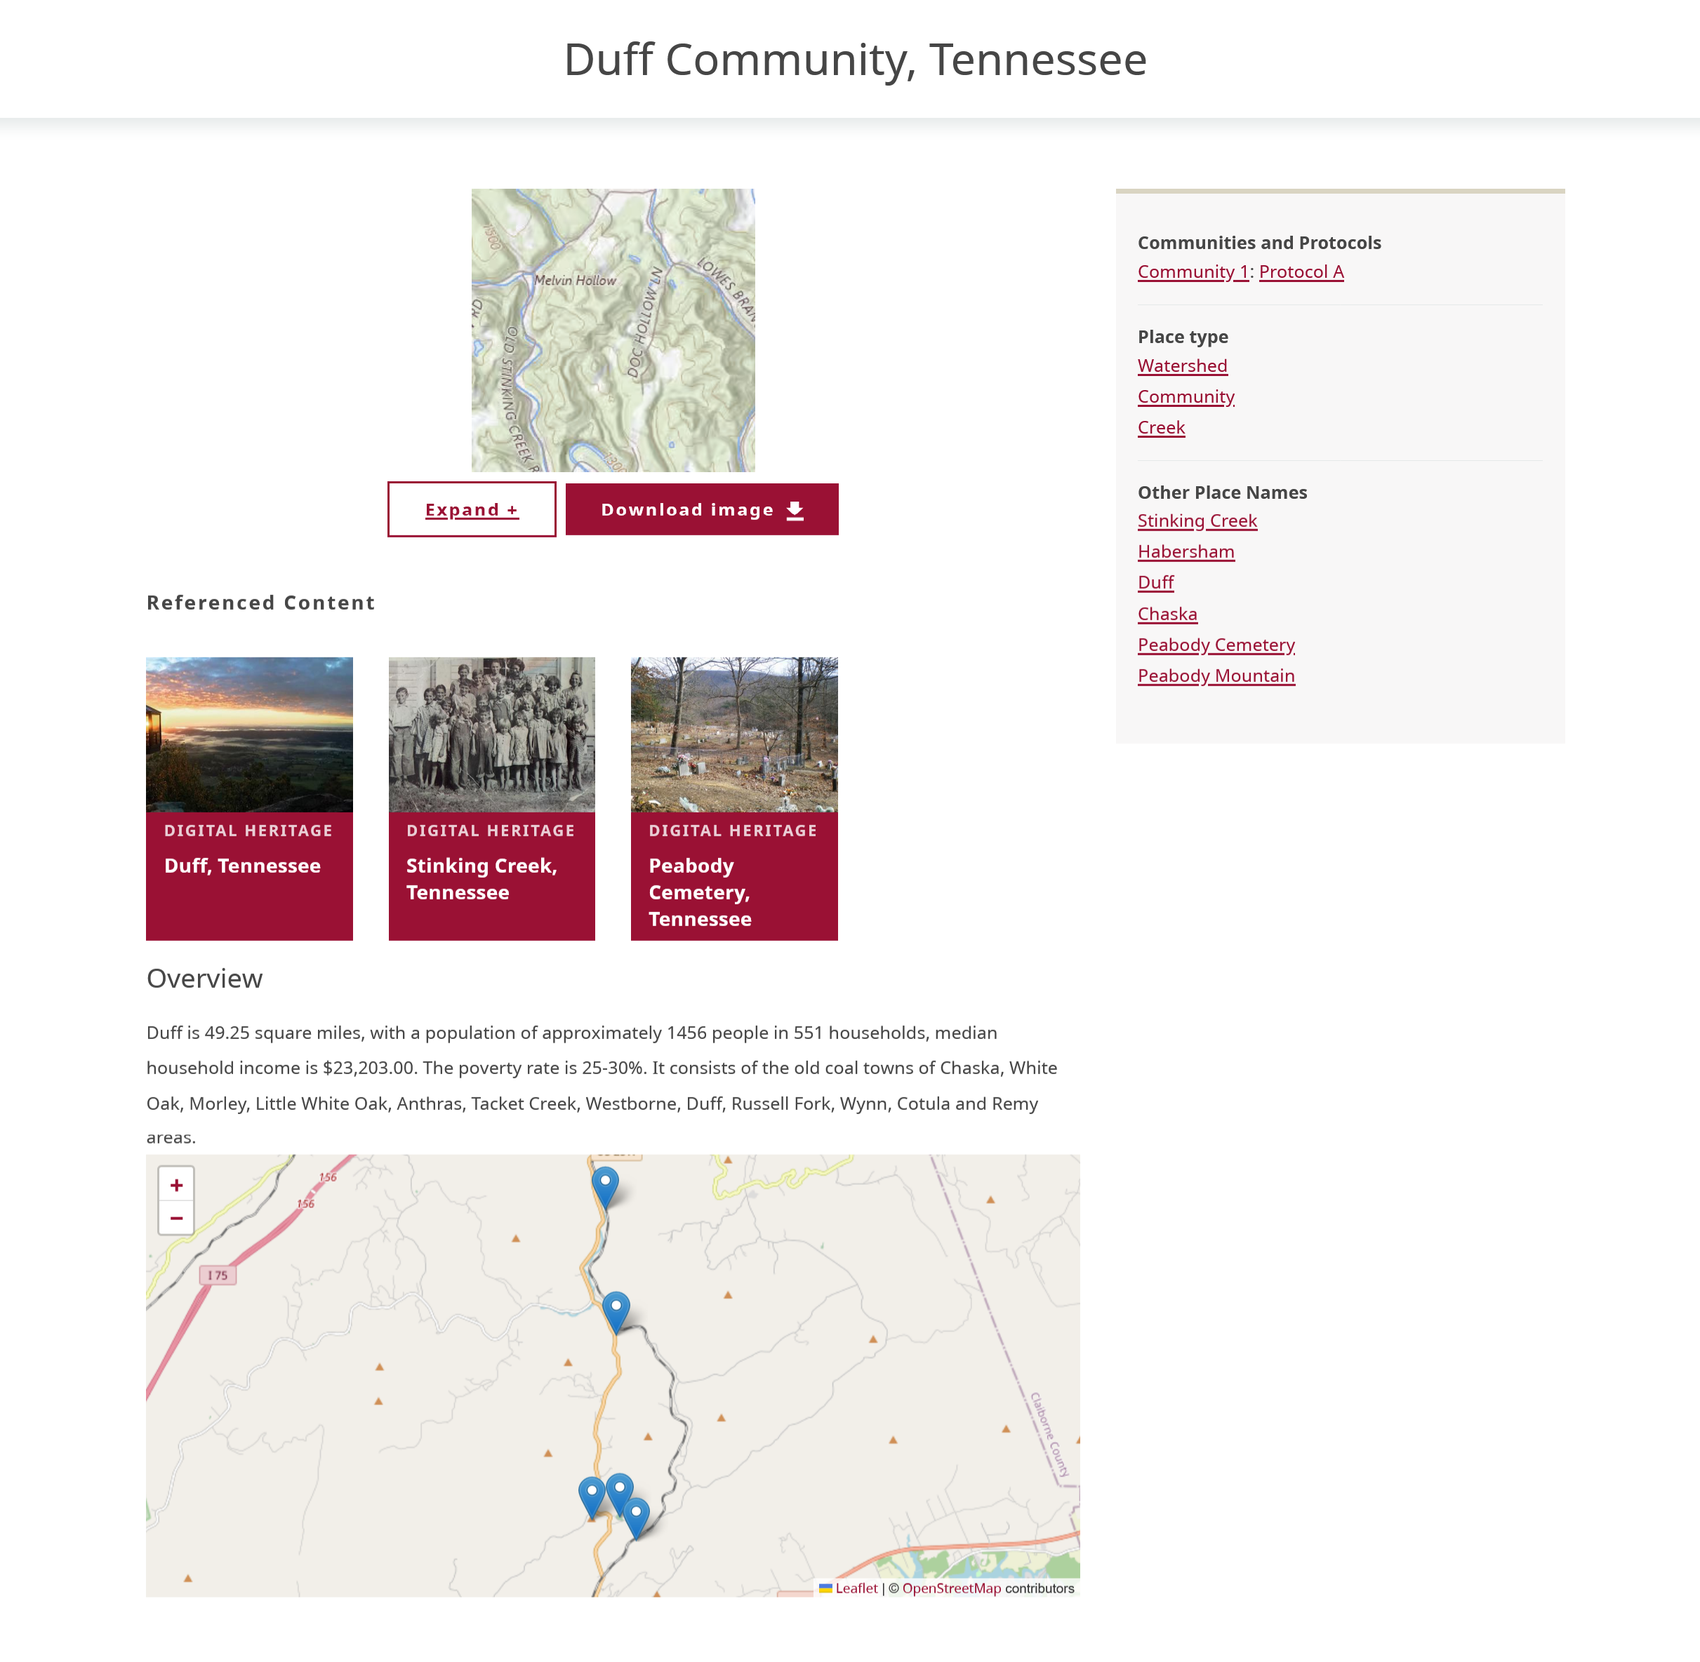
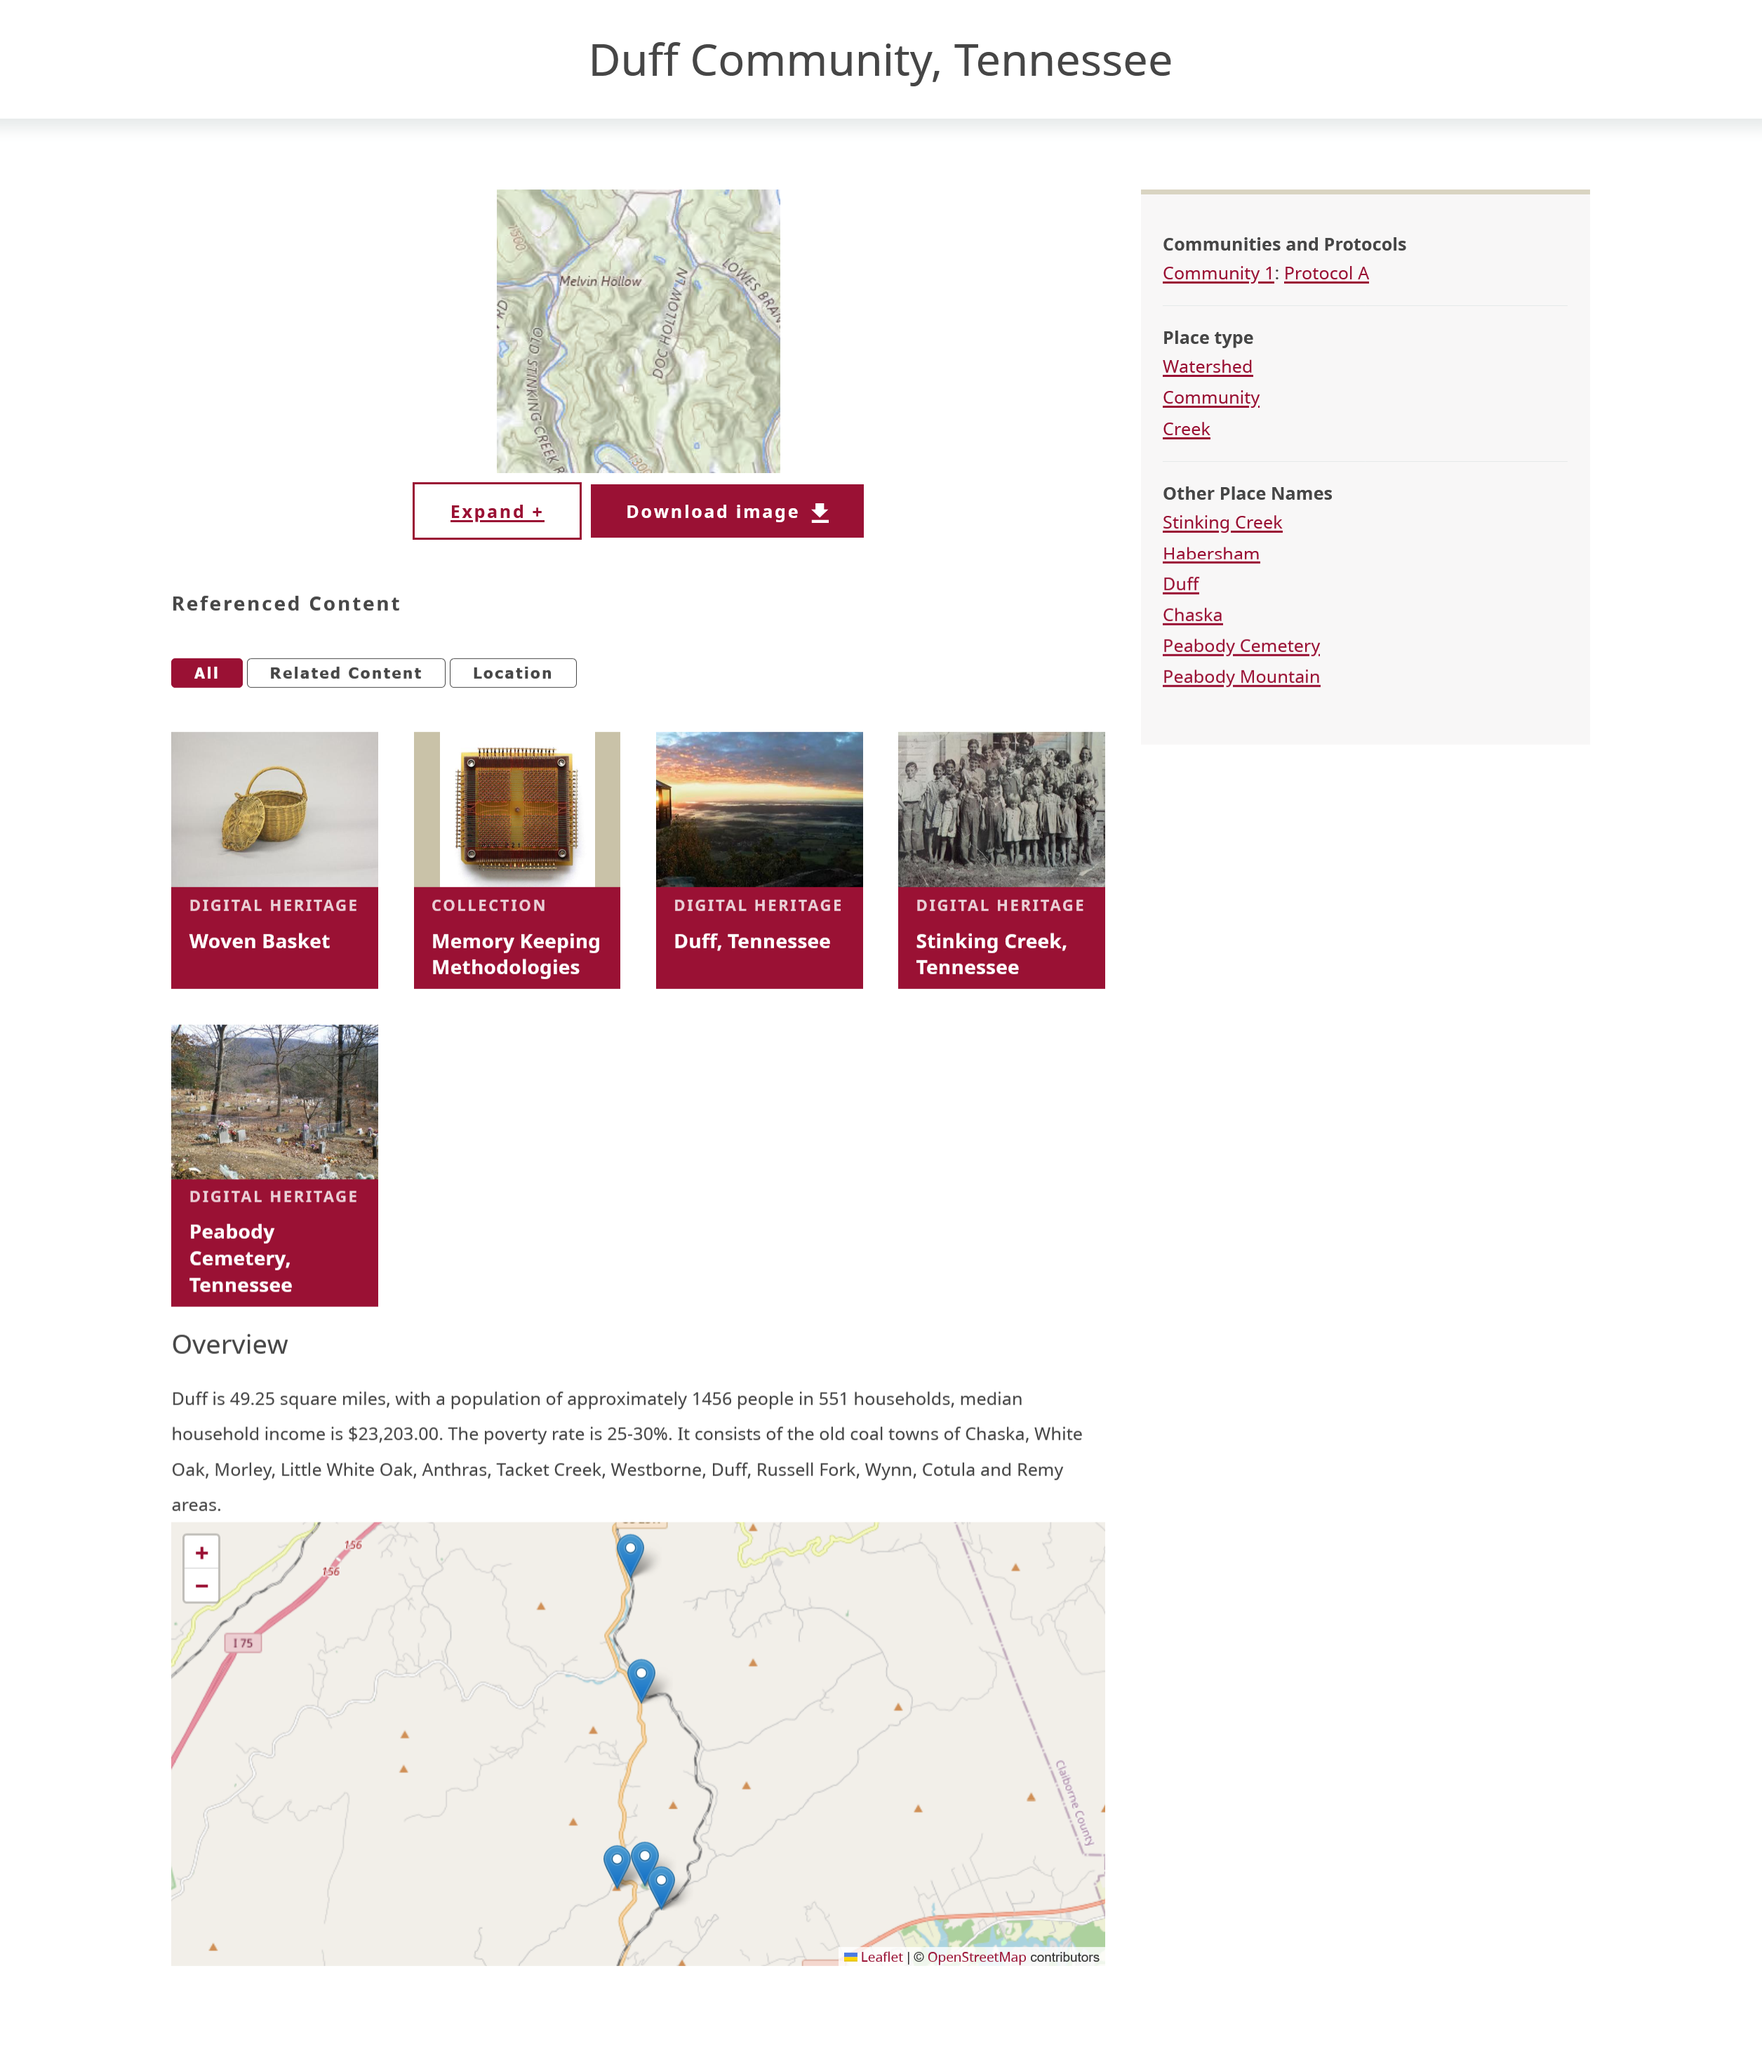
Referenced content

diff --git a/docs/place-records/UnderstandingPlaceRecords.md b/docs/place-records/UnderstandingPlaceRecords.md
@@ -13,7 +13,8 @@ Place records are a content type that allows for rich, in-depth location records
 
 - Custom text, mapping, and media sections enable multiple, focused, text-based or multi-media geographic sketches for a location.
 - Other names a location has been known by throughout its history can be linked to the location in the place record. This allows the location to be properly identified by the name or names it is known by in its community, and can help to remove confusion caused by misnamings, misspellings, or mistaken attributions. 
-- When properly configured, place records automatically aggregate all the digitial heritage items and other content in which a location is referenced.
+- When properly configured, place records automatically aggregate all the digitial heritage items and other content in which a location is referenced. 
+- Referenced content can be filtered by All, Related Content, or Location. 
 
 For more information about how to create person records, see [Create Place Records](CreatePlaceRecord.md).
 

diff --git a/docs/person-records/UnderstandingPersonRecords.md b/docs/person-records/UnderstandingPersonRecords.md
@@ -16,6 +16,7 @@ Person records are a content type that allows for rich, in-depth biographical re
 - Identification of relationships between the individual in the person record and other individuals. Users can use the interpersonal relationship taxonomy to provide terms naming the type of the relationship.
 - Other names a person has been known by throughout their life can be linked to the individual in the person record. This allows the individual to be properly identified by the name or names they are known by in their community, and can help to remove confusion caused by misnamings, misspellings, or mistaken attributions. 
 - When properly configured, person records automatically aggregate all the digital heritage items and other content in which an individual is referenced.
+- Referenced content can be filtered by All, Related Content, Creator, Contributor, or Person. 
 
 For more information about how to create person records, see [Create Person Records](PersonRecords.md).
 
